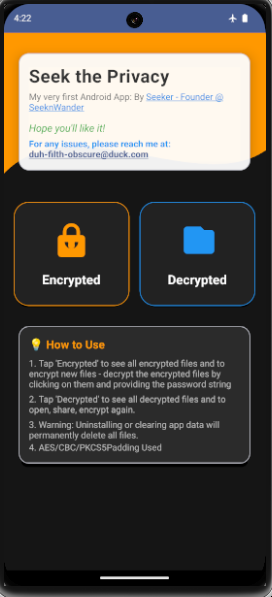
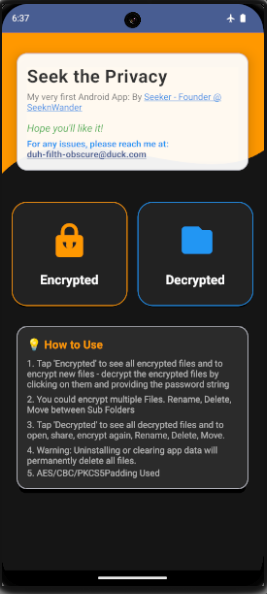
V2 finalized changes

diff --git a/README.md b/README.md
@@ -38,6 +38,18 @@ Apps constantly request storage access ; from basic media folders to full device
 * **Seamless Access for You:** You, the owner, can still open, view, and share these files **normally**.
 * **Deep Security:** Because your files are encrypted, they are also protected from anyone gaining direct, physical access to your device's storage.
 
+
+### What's New in V2.0
+
+* **Removed freeze issue in loading bar while encryption** 
+* **create sub folders for categorization** 
+* **rename files**
+* **count files**
+* **search the files**
+* **delete the file permanently**
+* **Move files through sub folders**
+* **More Operations on Files**
+
 ### Screenshots
 
 ![Screenshot 1: Dashboard](images/phoneScreenshots/1.png)
@@ -45,6 +57,7 @@ Apps constantly request storage access ; from basic media folders to full device
 ![Screenshot 3: Decrypt Files](images/phoneScreenshots/3.png)
 ![Screenshot 4: Decrypted Folder](images/phoneScreenshots/4.png)
 ![Screenshot 5: Open, Share, Decrypt Again](images/phoneScreenshots/5.png)
+![Screenshot 6: Version2 Categorization n other features overview](images/phoneScreenshots/morefeatures-v2.png)
 
 
 ## Logo and Branding
